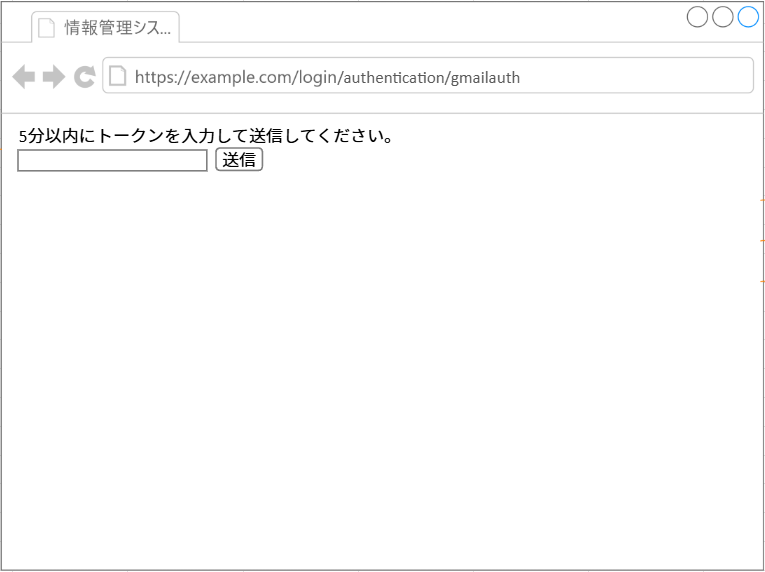
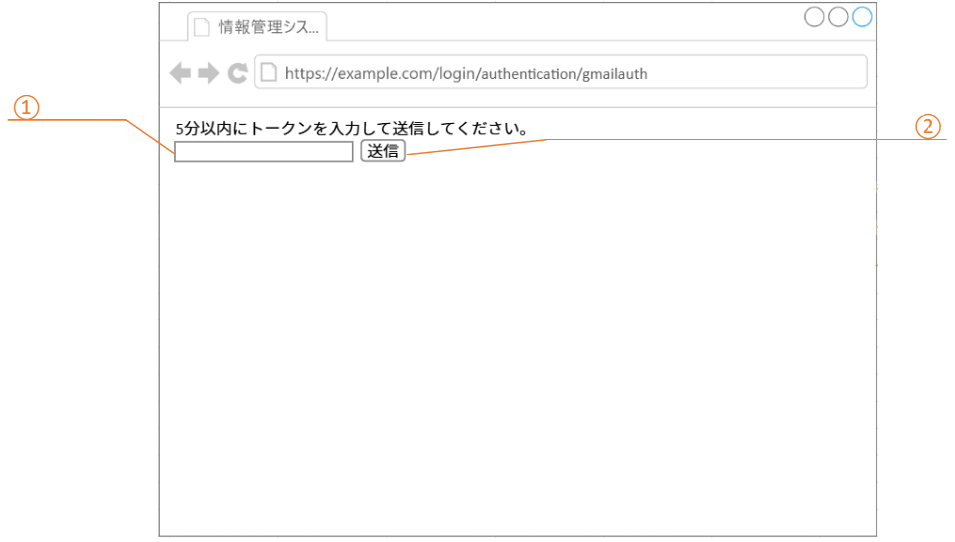
googleログイン対応、画面仕様書修正

Changed region(s): [[0.0, 0.0, 1.0, 1.0], [0.0, 0.059, 0.0301, 0.0886]]

diff --git a/docs/09_dbtable.md b/docs/09_dbtable.md
@@ -149,4 +149,4 @@
 | 4   | 認証キー       | token      | VARCHAR  |      |                   |                           |
 | 5   | 有効期限       | expiration | TIMESTAMP  |      | CURRENT_TIMESTAMP<br> + INTERVAL '5 minutes' | 有効期限5分           |
 | 6   | 施行回数       | limitcount | INT      |      |                   |                           |
-| 7   | 登録ID        | authid      | VARCHAR(26) | P    | GEN_RANDOM_UUID() | idがランダムに自動で採番される |
+| 7   | 認証ID        | authid      | VARCHAR(26) | P    | GEN_RANDOM_UUID() | idがランダムに自動で採番される |

diff --git a/docs/02_screen_spec.md b/docs/02_screen_spec.md
@@ -590,3 +590,9 @@ HTTPメソッド
 ### 構成
 
 ![](media/screen-KAP900V010-token-auth.png)
+
+| No | 項目ID    | 項目名     | 項目タイプ | 制限/書式                  | 備考 |
+| -- | --------- | ---------- | ---------- | -------------------------- | ---- |
+|    | authid   | 認証ID     | 隠し要素   | ―                          |      |
+| ① | token     | トークン   | テキスト   | 空欄不可                   |      |
+| ② | submit    | 送信       | ボタン     | ―                          |      |
